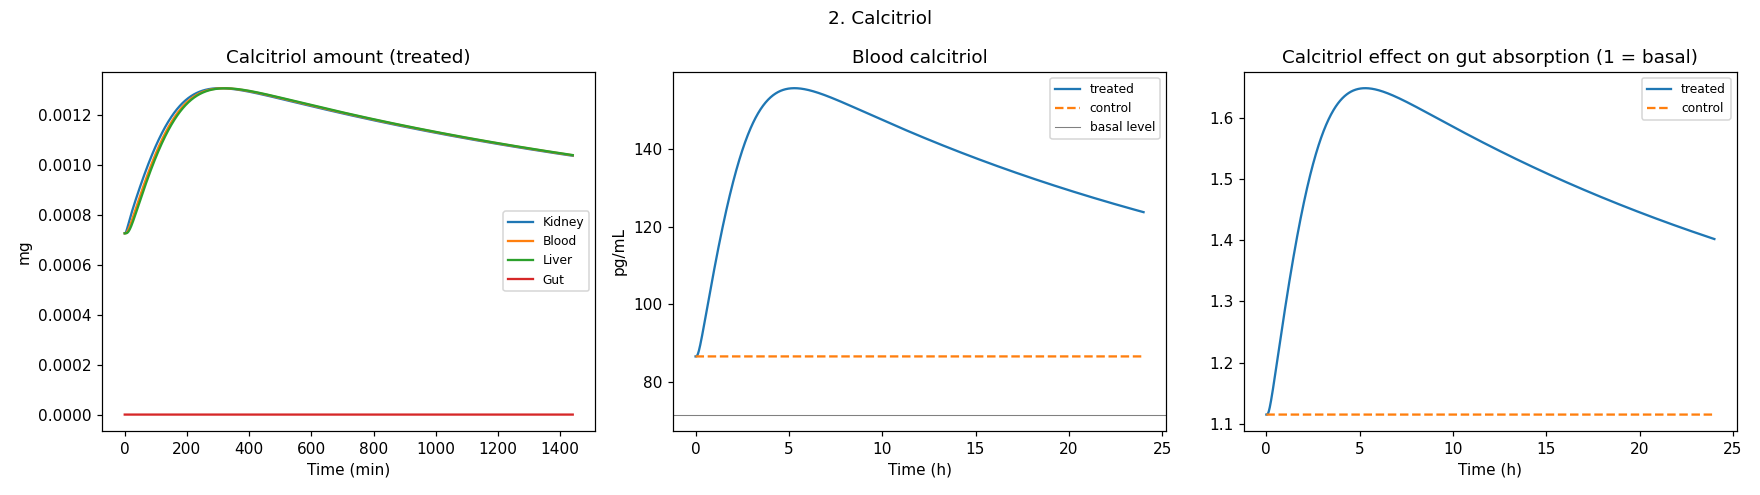
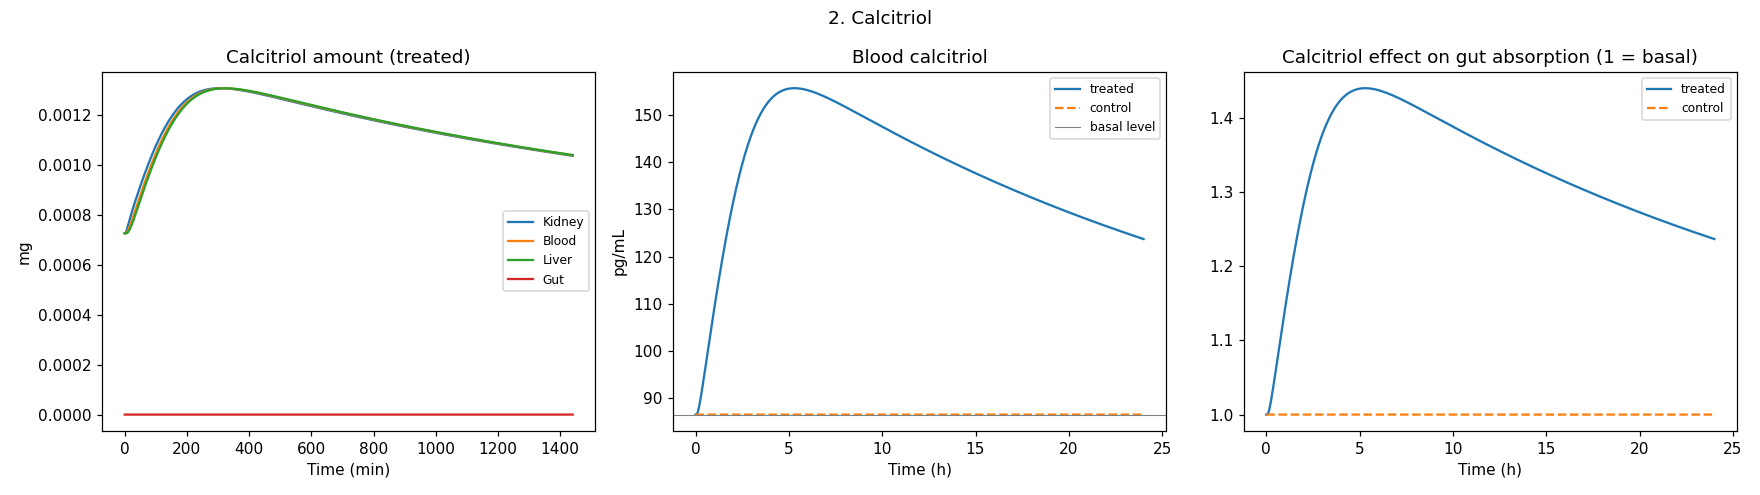
IM FREE, done with code for now, need to confirm values, but graphs look nice. morning here I come

diff --git a/Version 2/main.py b/Version 2/main.py
@@ -1,11 +1,3 @@
-"""Run with: python main.py (keep all four scripts in the same folder).
-
-Units: TPT in mmol; calcitriol and calcium in mg; time in minutes; volume in L.
-Fill all required None values in calcitriol.py and calcium.py before running.
-The PDF's updated names are used wherever supplied; other names describe
-the compound, compartment, and units. Unit corrections are documented locally.
-"""
-
 """TPT -> calcitriol -> calcium model.      Run with:  python main.py
 (keep main.py, tpt.py, calcitriol.py and calcium.py in the same folder)
 
@@ -17,8 +9,9 @@ WHAT IS MODELLED  (three linked compartment models, solved one after another)
 UNITS   TPT: mmol | calcitriol and calcium: mg | time: min | volume: L
 
 HOW THE RESULTS ARE READ
-  Every model is solved twice: TREATED (TPT injection) and CONTROL (no injection). The initial calcium and
-  calcitriol amounts in the parameter files are not a steady state, so both runs drift. The TPT effect is
+  Every model is solved twice: TREATED (TPT injection) and CONTROL (no injection). Calcitriol and kidney calcium
+  start at steady state, so they stay flat in the control run. Calcium still drifts in the control run because
+  the one-off food pool (m_Ca_intake) is absorbed during the day and bone exchange is small. The TPT effect is
   therefore always TREATED minus CONTROL.
 
 FLAGS FOR YOU: search this file for "ASSUMPTION" and "SWITCH"; they mark every interpretation I had to make.
@@ -270,6 +263,11 @@ def calibrate_calcitriol_coefficient(time_min, TPT_treated, TPT_control, H):
     try:
         return brentq(lambda k: peak_ratio(k) - CALCITRIOL_RISE_TARGET, 1e-2, 1e9, xtol=1e-3, rtol=1e-6), True
     except ValueError:
+        # FIX: calcitriol.py leaves this value as None, which would crash the next solve with a confusing TypeError.
+        if calcitriol.k_increase_calcitriol_produce_by_TPT is None:
+            raise RuntimeError("Calibration of k_increase_calcitriol_produce_by_TPT found no solution for "
+                               f"a peak calcitriol ratio of {CALCITRIOL_RISE_TARGET}, and calcitriol.py has no value "
+                               "to fall back on. Set one in calcitriol.py or change CALCITRIOL_RISE_TARGET.")
         return calcitriol.k_increase_calcitriol_produce_by_TPT, False
 
 
@@ -282,6 +280,8 @@ def run_simulation():
 
     # --- Model 2: calcitriol, treated and control ------------------------------------------
     k_increase, calibrated = calcitriol.k_increase_calcitriol_produce_by_TPT, False
+    if k_increase is None and not CALIBRATE_CALCITRIOL_TPT:
+        raise ValueError("CALIBRATE_CALCITRIOL_TPT is False but calcitriol.k_increase_calcitriol_produce_by_TPT is None.")
     if CALIBRATE_CALCITRIOL_TPT:
         k_increase, calibrated = calibrate_calcitriol_coefficient(time_min, TPT_treated, TPT_control, H)
     calcitriol_treated = solve_calcitriol(time_min, TPT_treated, k_increase, H["kidney"])
@@ -369,9 +369,9 @@ def print_summary(sim, out):
     print(f"  TPT effect on bone Ca after 24 h: {out['bone_Ca_TPT_effect_mg'][-1]:+.1f} mg")
     k_abs_basal = calcium.basal_absorb_Ca * calcium.gut_absorption_turnover_rate       # rate at calcitriol effect = 1
     absorbed_share = k_abs_basal / (k_abs_basal + base["gut_waste"])
-    print(f"  Gut: absorbed share at basal calcitriol = {absorbed_share:.2f} (basal_absorb_Ca = {calcium.basal_absorb_Ca:.2f}; "
-          f"the waste rate multiplies (1 - basal) twice, see calcium.py)")
-    print(f"  Bone exchange flux = {calcium.k_blood_to_bone_Ca*calcium.initial_blood_Ca*1440/1000:.1f} g Ca/day (physiological remodelling is ~0.3-0.6 g/day)")
+    print(f"  Gut: absorbed share at basal calcitriol = {absorbed_share:.2f} (basal_absorb_Ca = {calcium.basal_absorb_Ca:.2f})")
+    print(f"  Bone exchange flux = {calcium.k_blood_to_bone_Ca*calcium.initial_blood_Ca*1440/1000:.2f} g Ca/day (physiological remodelling is ~0.3-0.6 g/day)")
+    print(f"  Kidney Ca starts at {calcium.initial_kidney_Ca:.2f} mg (steady state); calcitriol effect on gut absorption at baseline = {base['calcitriol_impact'][0]:.2f}")
     print(f"Mass-balance errors: TPT {out['check_TPT_mass_error_mmol']:.2e} mmol | calcitriol {out['check_calcitriol_mass_error_mg']:.2e} mg | calcium {out['check_calcium_mass_error_mg']:.2e} mg")
     print("=" * 78)
 

diff --git a/Version 2/calcium.py b/Version 2/calcium.py
@@ -7,6 +7,7 @@ concentrations rather than undefined derivatives such as dmB and dmCatrB.
 import numpy as np
 
 from tpt import Vol_blood_in_bone
+import calcitriol
 
 
 # PARAMETERS
@@ -38,9 +39,17 @@ kidney_turnover_rate = 1.0  # min^-1.
 bone_TPT_reference_mmol = None  # mmol TPT; needed only for the bone response.
 
 k_blood_kidney_Ca = blood_flow_kidney / Vol_blood_in_bone  # min^-1.
-k_blood_to_bone_Ca = (
-    cardiac_out_frac_bone * cardiac_output / Vol_blood_in_bone
-)  # min^-1; PDF perfusion expression replaces the source's mismatched bone formula.
+# FIX (bone flux): the old rate cardiac_out_frac_bone * cardiac_output / V assumed bone takes up ALL the calcium
+# delivered to it (about 54 g Ca/day). Physiological bone formation/resorption is about 0.3-0.6 g/day, so the
+# delivered calcium is multiplied by an extraction fraction (the share of delivered calcium that is taken up).
+bone_Ca_flux_mg_per_day = 450.0  # mg/day; physiological bone exchange, mid-range of 300-600 mg/day.
+Ca_blood_mg_per_L_baseline = 95.0  # mg/L; same blood calcium used for initial_blood_Ca below.
+bone_perfusion_rate = cardiac_out_frac_bone * cardiac_output / Vol_blood_in_bone  # min^-1; perfusion-limited ceiling.
+bone_Ca_extraction = (
+    bone_Ca_flux_mg_per_day / 1440
+    / (bone_perfusion_rate * Ca_blood_mg_per_L_baseline * Vol_blood_in_bone)
+)  # dimensionless; about 0.008, i.e. under 1% of calcium delivered to bone is taken up.
+k_blood_to_bone_Ca = bone_perfusion_rate * bone_Ca_extraction  # min^-1
 
 
 # INITIAL CONDITIONS (mg)
@@ -54,10 +63,21 @@ k_bone_to_blood_Ca = (
     k_blood_to_bone_Ca * initial_blood_Ca / intial_bone_Ca
 )  # min^-1; equal basal bone influx and outflux at the initial blood/bone amounts.
 
+# FIX (kidney start): kidney calcium used to start at 0, so reabsorption and urine loss started at 0 and the
+# control run spent its first hours filling the kidney. Start at steady state instead:
+#   inflow k_blood_kidney_Ca * blood = outflow (reabsorption + urine) * kidney = kidney_turnover_rate * kidney
+initial_kidney_Ca = k_blood_kidney_Ca * initial_blood_Ca / kidney_turnover_rate  # mg; about 11.3 mg.
+
+# FIX (calcitriol baseline): calcitriol.py starts blood calcitriol at its own steady state (about 86.5 pg/mL), so
+# measure the gut-absorption effect from THAT level; the sampled 18-78 pg/mL draw above is kept only so the
+# random sequence (and every draw after it) stays identical, and is no longer used.
+calcitriol_basal_level_sampled = calcitriol_basal_level  # mg/L; kept for reference, not used.
+calcitriol_basal_level = calcitriol.Initial_calcitriol_blood / Vol_blood_in_bone  # mg/L; effect = 1 at baseline.
+
 initial_calcium = [
     m_Ca_intake,
     initial_gut,
     initial_blood_Ca,
-    initial_gut,  # Initial kidney calcium, using the equal-amount assumption above.
+    initial_kidney_Ca,
     intial_bone_Ca,
 ]
